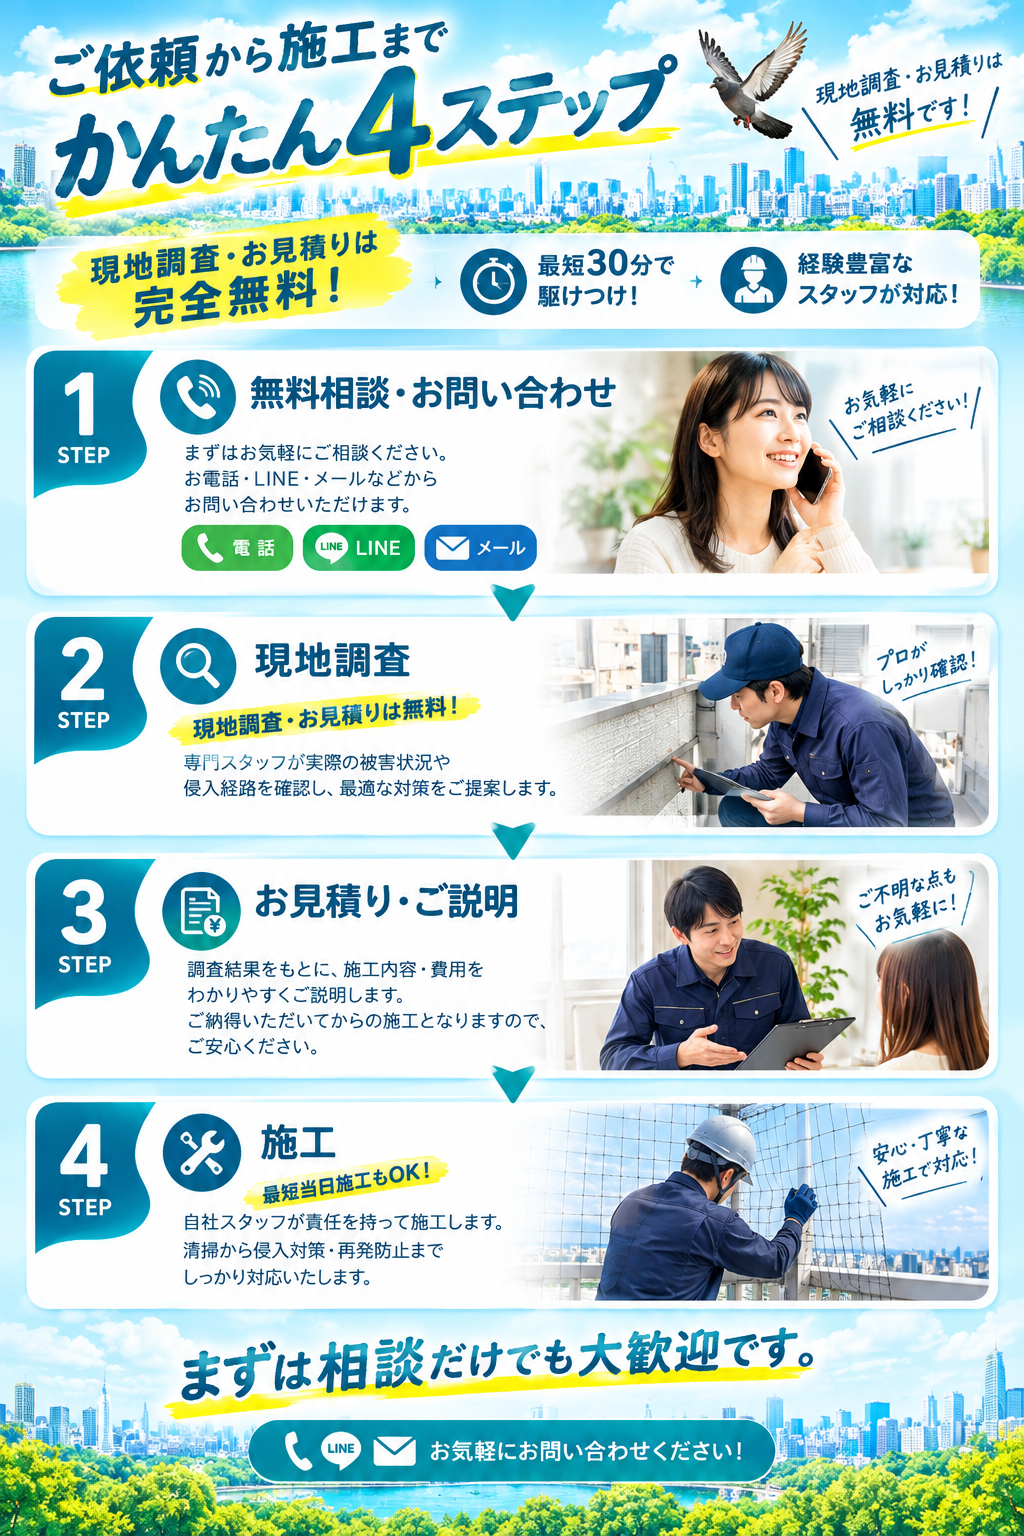
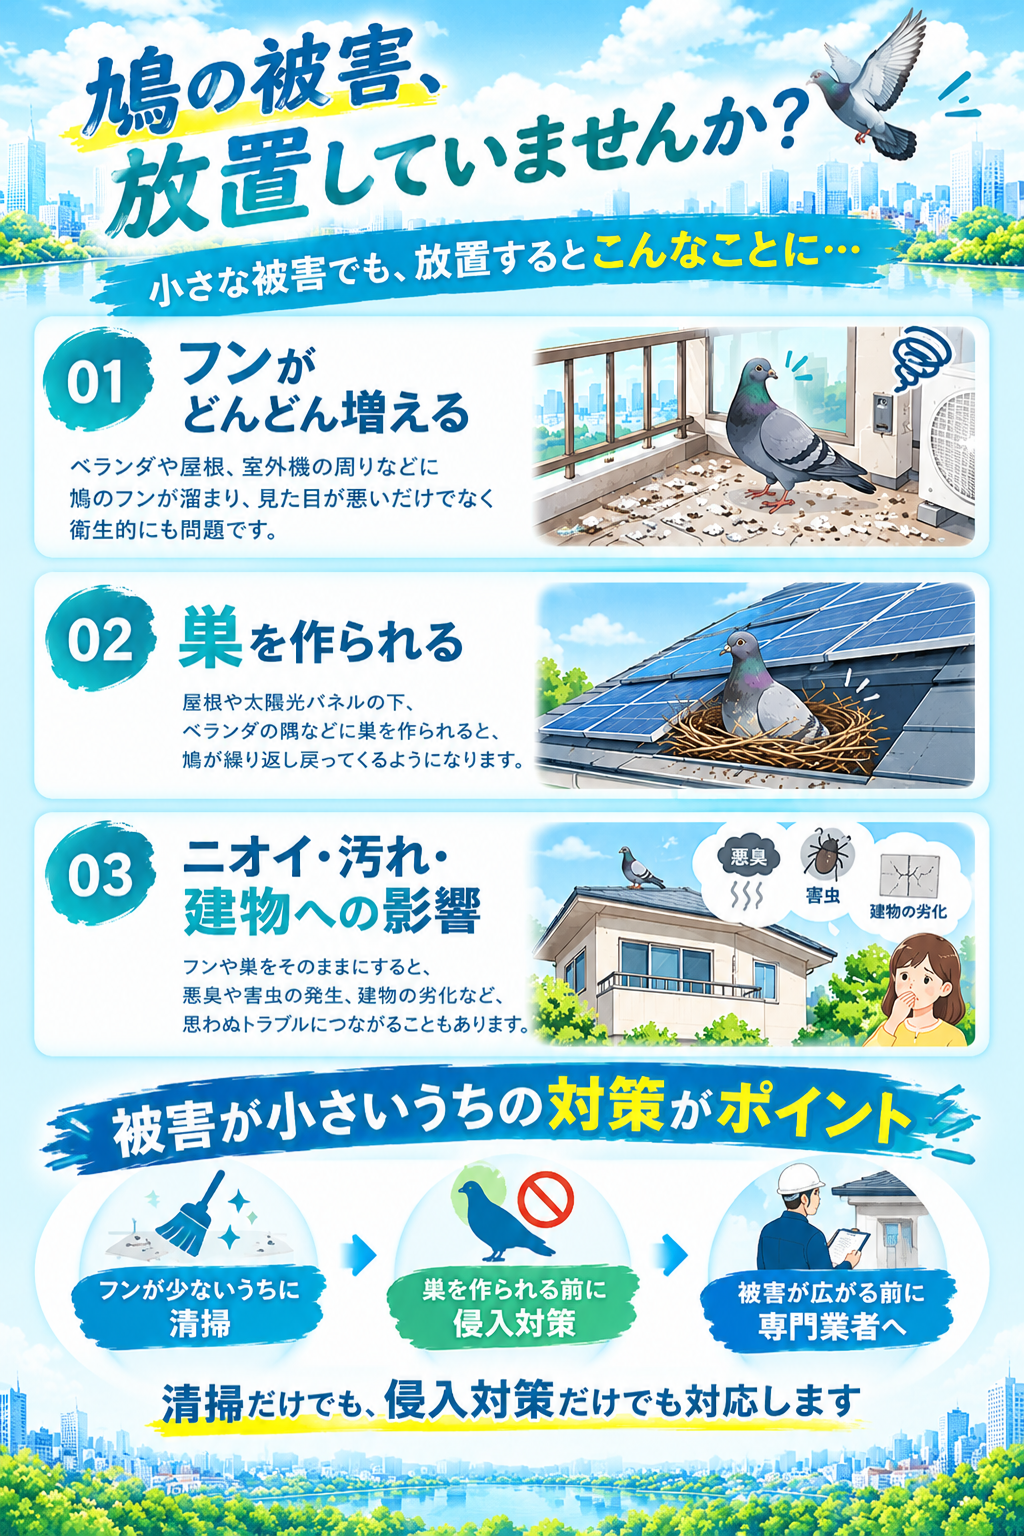
section06追加（５と６いれかえ）

diff --git a/index.html b/index.html
@@ -167,12 +167,29 @@
           <p>見違えるほどキレイに。安心の環境を取り戻します</p>
         </header>
         <div class="section-visual-media">
-          <img src="assets/img/section04.png" alt="鳥害のお悩み、ここまで変わります！ベランダ清掃・侵入対策・太陽光パネルの巣撤去の施工事例" width="1024" height="1536">
+          <img src="assets/img/section04.png" alt="鳥害のお悩み、ここまで変わります！ベランダ清掃・侵入対策・太陽光パネルの巣撤去の施工事例" width="1024"
+            height="1536">
         </div>
       </section>
 
       <div class="ad-band">
         <p>確かな技術力で<em>再発防止までしっかり対応</em></p>
+        <a href="tel:050-8896-4221" class="btn-main">📞 050-8896-4221</a>
+      </div>
+
+      <section class="section-visual" id="danger">
+        <header class="visual-heading">
+          <h2>被害が小さいうちの<em>対策</em>がポイント</h2>
+          <p>フン・巣・ニオイ…放置すると被害はどんどん広がります</p>
+        </header>
+        <div class="section-visual-media">
+          <img src="assets/img/section05.png" alt="フンが増える・巣を作られる・ニオイや建物への影響。被害が小さいうちの対策がポイント" width="1024"
+            height="1536">
+        </div>
+      </section>
+
+      <div class="ad-band">
+        <p>清掃だけでもOK！<em>被害が広がる前にご相談を</em></p>
         <a href="tel:050-8896-4221" class="btn-main">📞 050-8896-4221</a>
       </div>
 
@@ -182,7 +199,7 @@
           <p>現地調査・お見積りは無料。まずは相談だけでも大歓迎です</p>
         </header>
         <div class="section-visual-media">
-          <img src="assets/img/section05.png" alt="ご依頼から施工までかんたん4ステップ。相談・現地調査・お見積り・施工の流れ" width="1024" height="1536">
+          <img src="assets/img/section06.png" alt="ご依頼から施工までかんたん4ステップ。相談・現地調査・お見積り・施工の流れ" width="1024" height="1536">
         </div>
       </section>
 
@@ -213,7 +230,7 @@
   </div>
 
   <!-- ===== DANGER / WHY NOT WAIT ===== -->
-  <section class="section danger" id="danger">
+  <section class="section danger">
     <div class="section-inner">
       <div class="section-title">
         <span class="en">DON'T WAIT</span>
